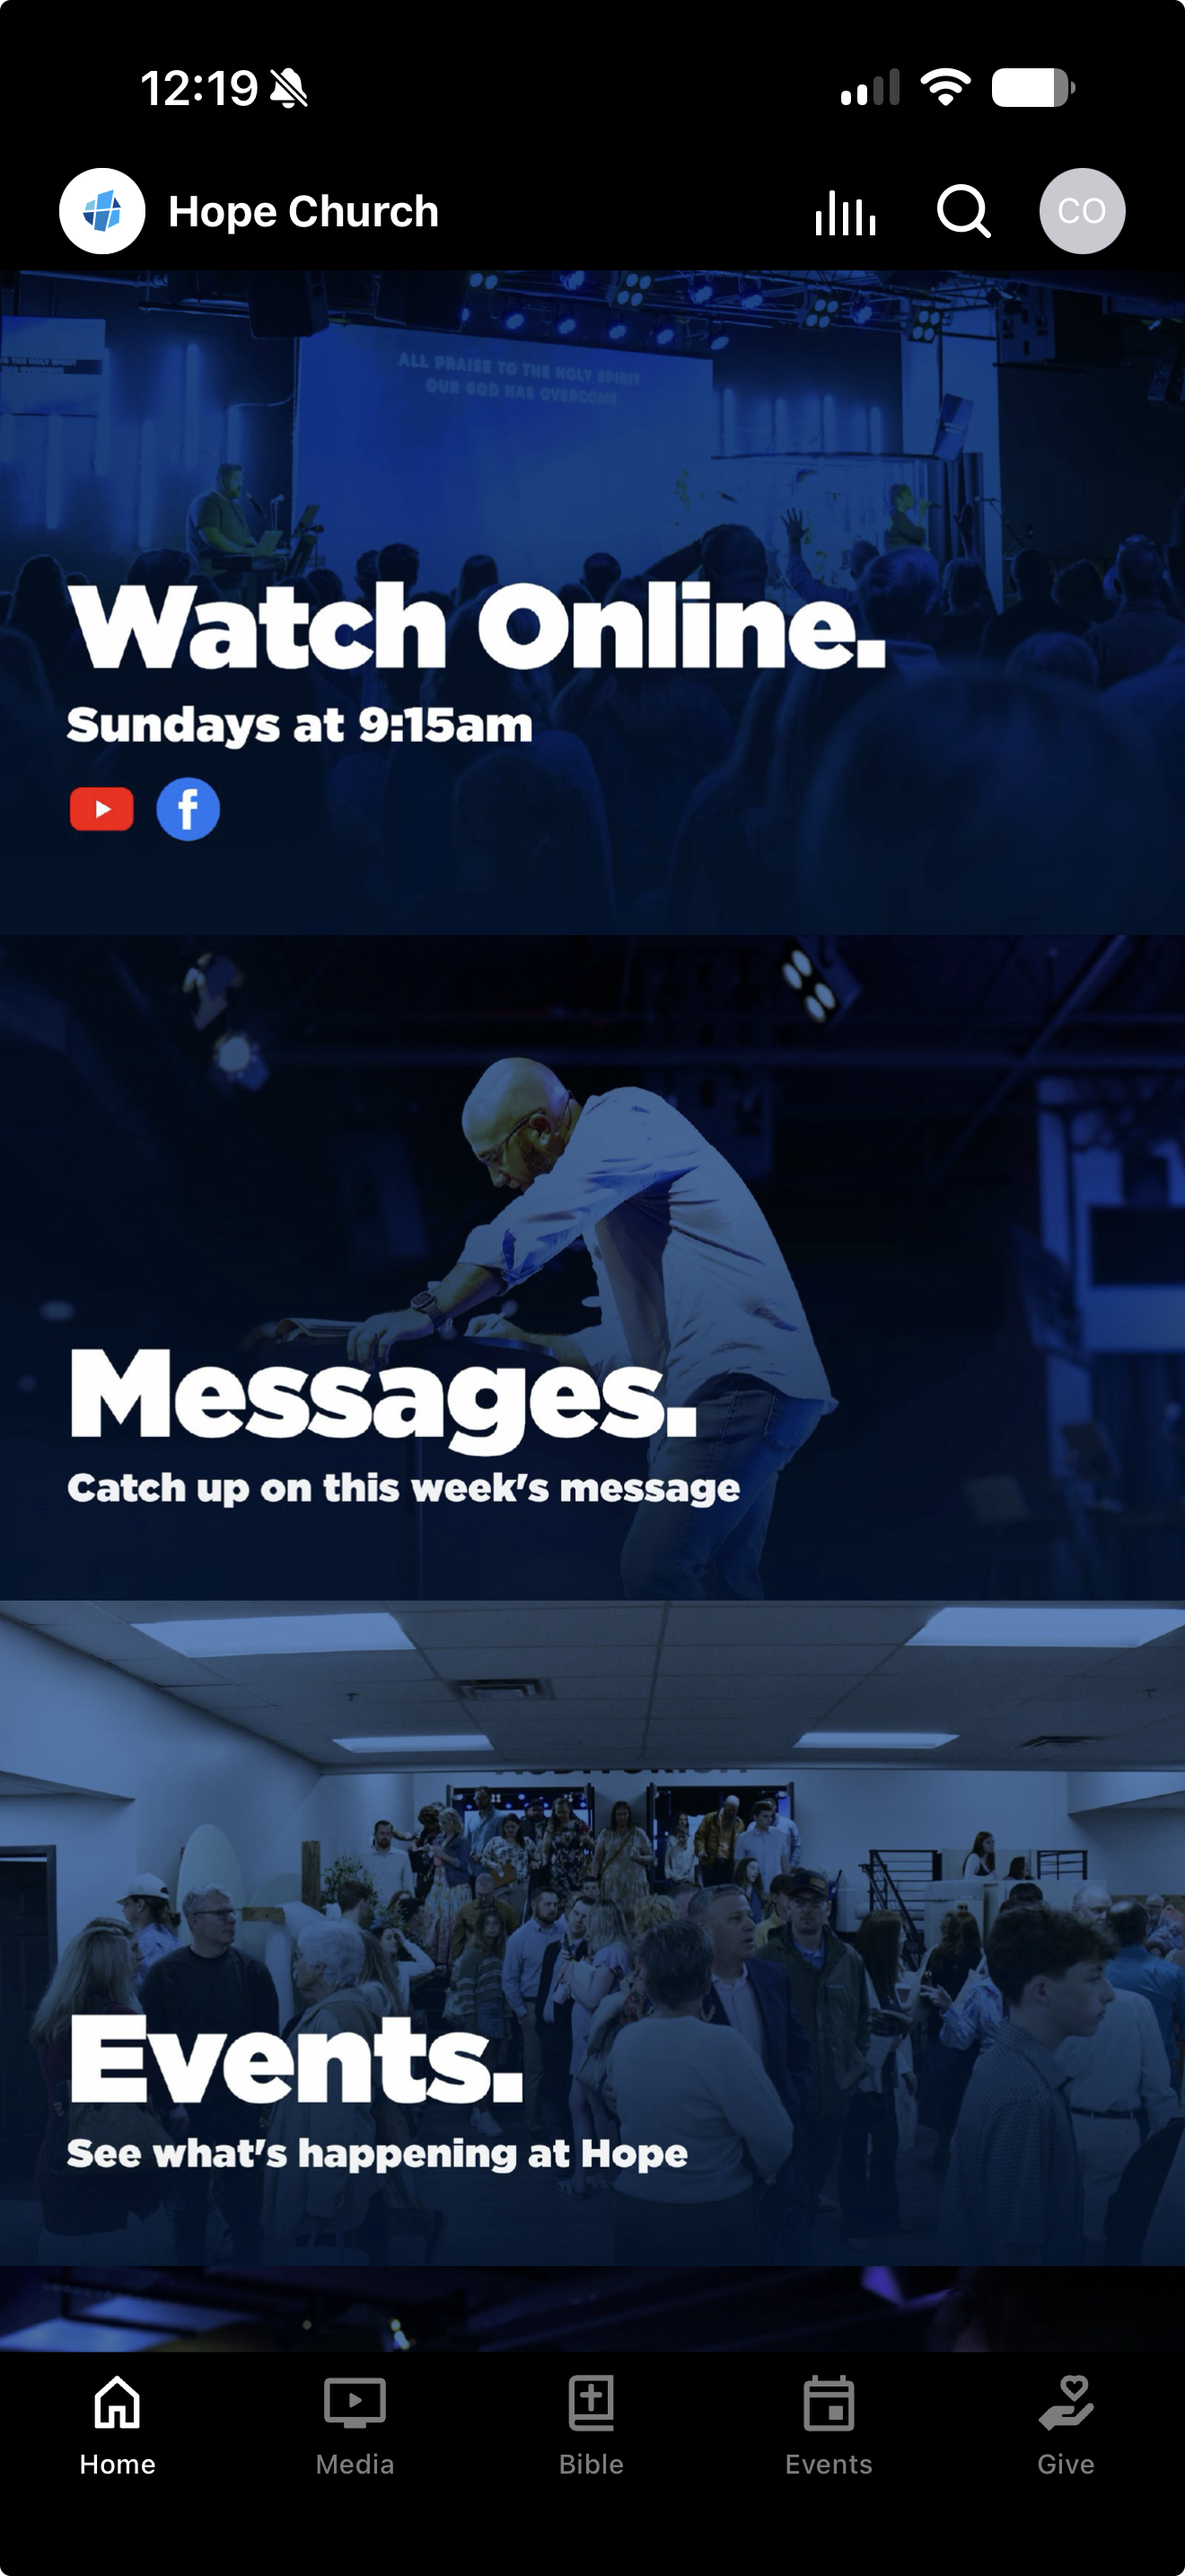
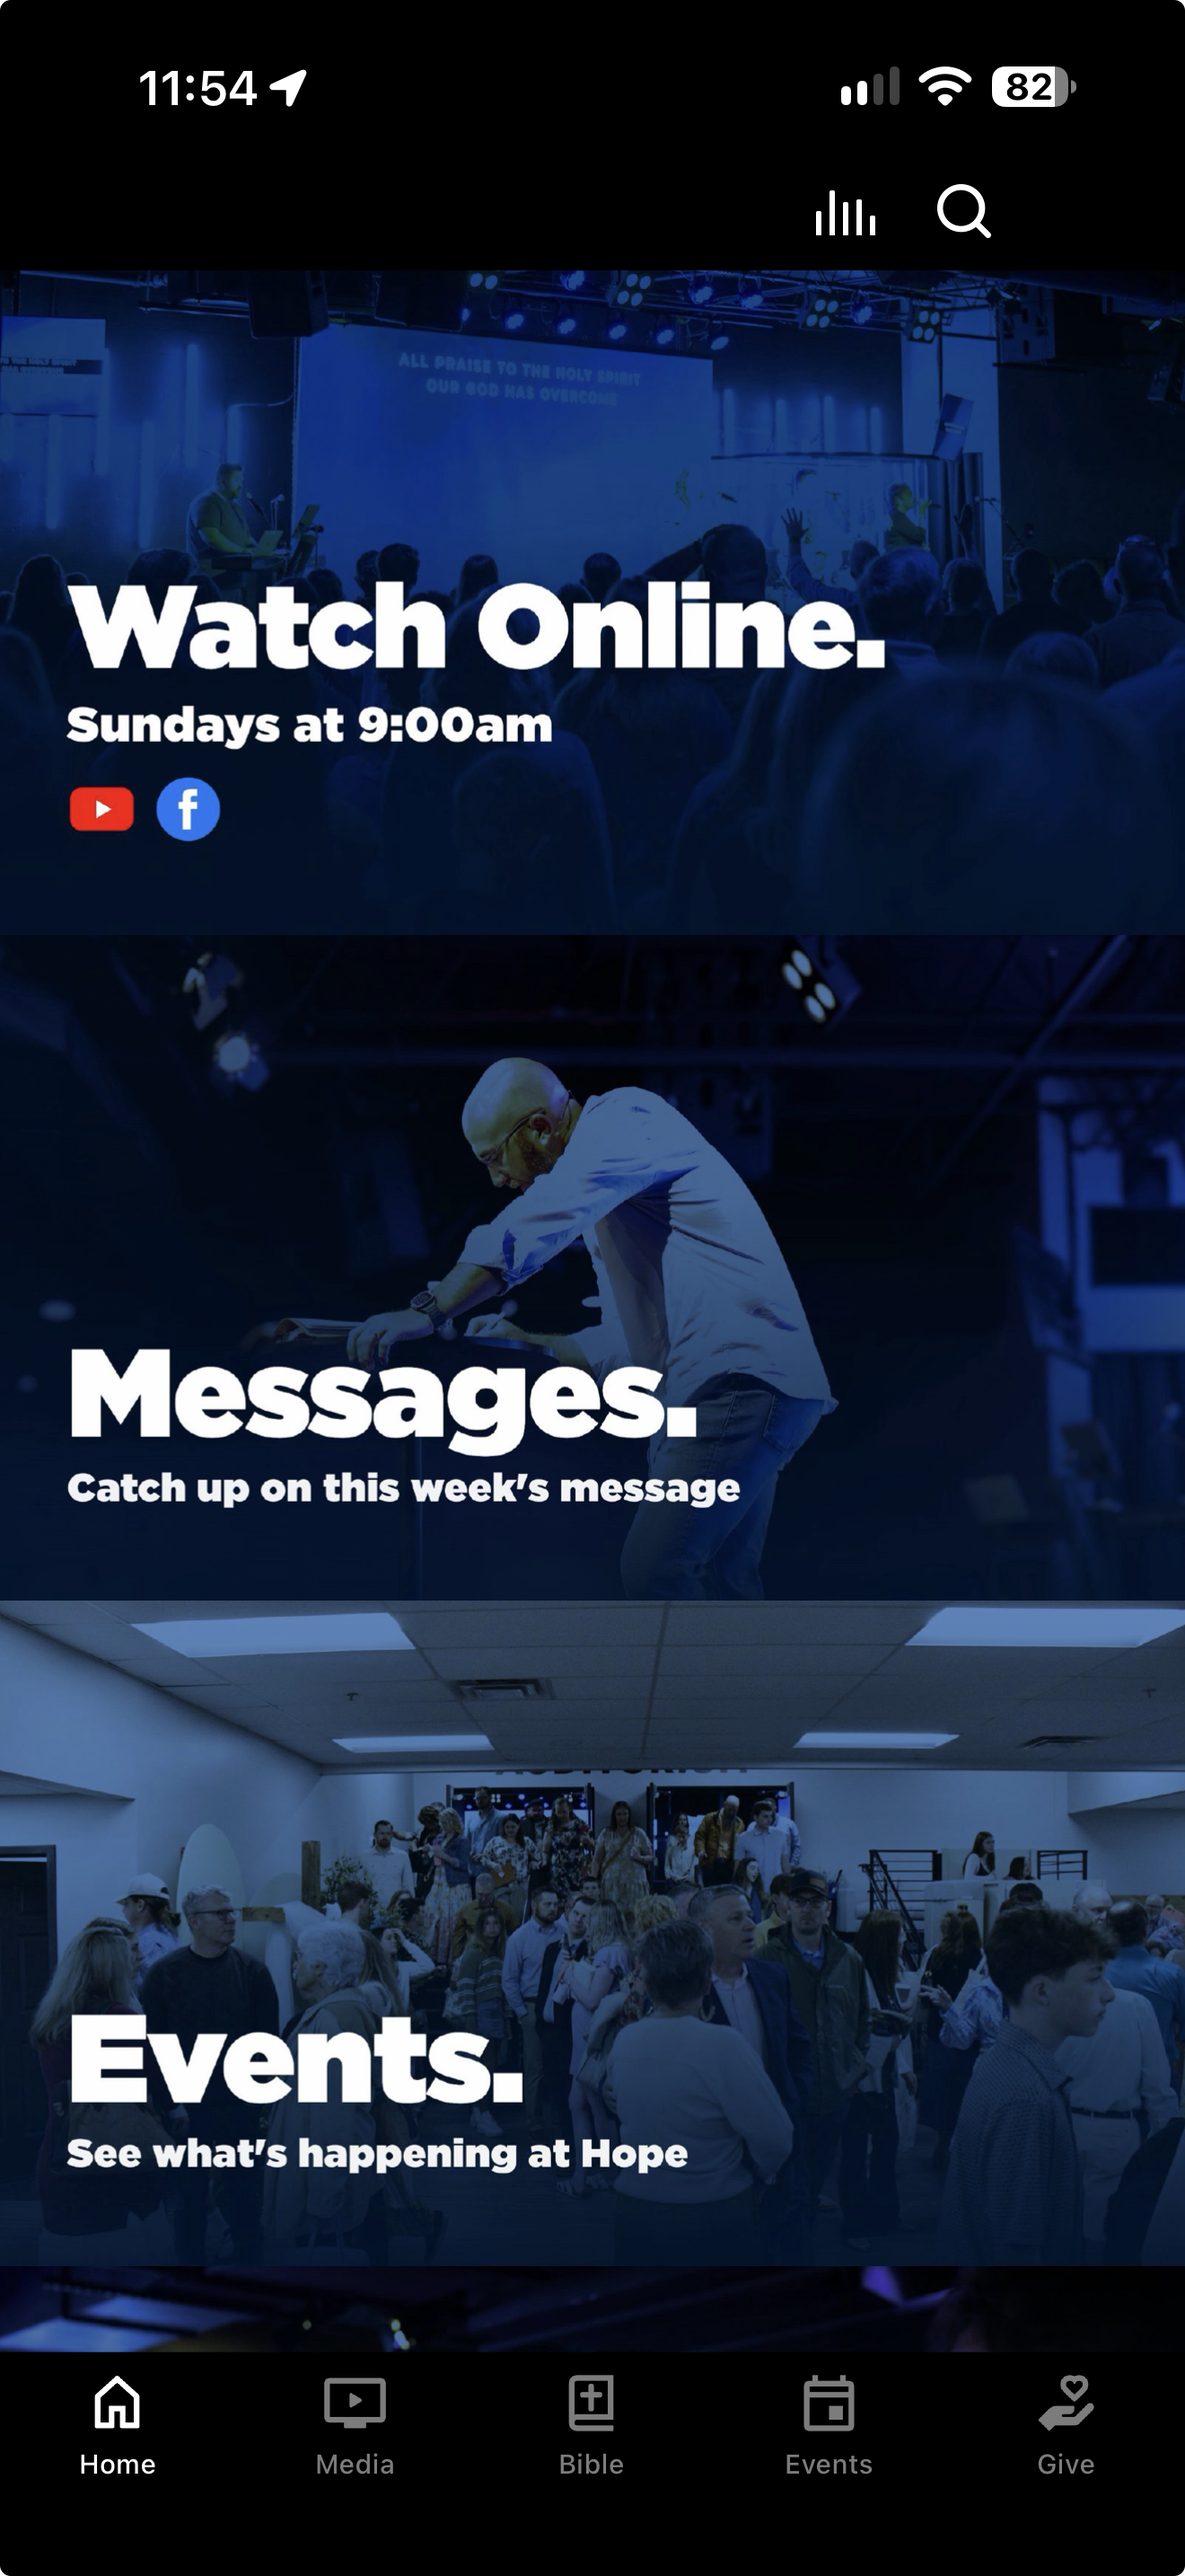
Home: fourth-service Coming Soon card + refreshed app screenshot
Add the 12:45pm service to serviceTimes.jsx (the single source of truth)
behind a FOURTH_SERVICE_START gate (Sun Sep 20 2026, 12:45pm ET). Until
that instant the Service Times block shows it as a "Coming Soon" card with
all classes (nursery-Linked 56); after it, the card, the footer Sundays
list, the hero time bar, and the kids classes note all pick it up on their
own — no redeploy needed. ?previewFourth=live|soon forces a state for QA.

Headline drops the service count ("Three services. Same welcome." ->
"Every service. Same welcome.") so it stays true across schedule changes.

The service-times grid was hardcoded to 3 columns; it is now 4-up on
desktop, 2x2 on tablet, stacked on mobile.

Also replace app-screenshot.png — the old one still advertised the 9:15am
livestream, which moved to 9:00am.

diff --git a/src/components/shared.jsx b/src/components/shared.jsx
@@ -1,7 +1,7 @@
 import React from 'react';
 import { resources } from '../resources.js';
 import { pathFor } from '../nav.js';
-import { useServiceTimes } from '../serviceTimes.jsx';
+import { useServiceTimes, useFourthServiceLive } from '../serviceTimes.jsx';
 // Hope Church — shared components: Header, Footer, Sunday strip, Announcement bar
 
 const { useState, useEffect } = React;
@@ -454,24 +454,34 @@ function MissionBar() {
 // ---------- Service Times block ----------
 function ServiceTimes() {
   const st = useServiceTimes();
+  const fourthLive = useFourthServiceLive();
+  const ALL_CLASSES = 'All classes (nursery–Linked 56)';
   const times = [
     { t: st.first.replace('am',''), s: 'am', name: 'First Service', note: st.isNew ? 'Nursery & preschool only' : null },
-    { t: st.second.replace('am',''), s: 'am', name: 'Second Service', note: st.isNew ? 'All classes (nursery–Linked 56)' : null },
-    { t: st.third.replace('am',''), s: 'am', name: 'Third Service', note: st.isNew ? 'All classes (nursery–Linked 56)' : null },
+    { t: st.second.replace('am',''), s: 'am', name: 'Second Service', note: st.isNew ? ALL_CLASSES : null },
+    { t: st.third.replace('am',''), s: 'am', name: 'Third Service', note: st.isNew ? ALL_CLASSES : null },
   ];
+  // The 12:45 service shows as "coming soon" until it starts on Sep 20, then
+  // becomes an ordinary card alongside the others.
+  if (st.isNew) times.push({
+    t: st.fourth.replace('pm',''), s: 'pm', name: 'Fourth Service',
+    note: ALL_CLASSES, soon: !fourthLive,
+  });
   return (
     <section className="service-times" data-screen-label="ServiceTimes">
       <div className="container">
         <div className="service-times-header">
           <span className="eyebrow">Sunday Mornings</span>
-          <h2 className="service-times-title">Three services. Same welcome.</h2>
+          <h2 className="service-times-title">Every service. Same welcome.</h2>
         </div>
         <div className="service-times-grid">
           {times.map((x) => (
-            <div key={x.t} className="service-time">
+            <div key={x.name} className={x.soon ? 'service-time service-time-soon' : 'service-time'}>
+              {x.soon && <div className="st-soon">Coming Soon</div>}
               <div className="st-time">{x.t}<s>{x.s}</s></div>
               <div className="st-name">{x.name}</div>
               {x.note && <div className="st-note">{x.note}</div>}
+              {x.soon && <div className="st-desc">Starting Sunday, September&nbsp;20</div>}
             </div>
           ))}
         </div>
@@ -514,6 +524,7 @@ function NewHereBlock({ onVisit }) {
 // ---------- Footer ----------
 function Footer({ onNav }) {
   const st = useServiceTimes();
+  const fourthLive = useFourthServiceLive();
   return (
     <footer className="site-footer">
       <div className="container footer-inner">
@@ -541,6 +552,7 @@ function Footer({ onNav }) {
               <li>{st.first}</li>
               <li>{st.second}</li>
               <li>{st.third}</li>
+              {fourthLive && <li>{st.fourth}</li>}
             </ul>
           </div>
           <div>

diff --git a/src/serviceTimes.jsx b/src/serviceTimes.jsx
@@ -15,7 +15,7 @@ const { useState, useEffect } = React;
 export const SERVICE_TIMES_SWITCH = Date.parse('2026-07-26T17:00:00Z');
 
 const OLD = { first: '8:00am', second: '9:45am', third: '11:30am', stream: '9:45am', runthrough: '7:00am', runthroughEnd: '7:30am', isNew: false };
-const NEW = { first: '7:30am', second: '9:00am', third: '11:00am', stream: '9:00am', runthrough: '6:30am', runthroughEnd: '7:00am', isNew: true };
+const NEW = { first: '7:30am', second: '9:00am', third: '11:00am', fourth: '12:45pm', stream: '9:00am', runthrough: '6:30am', runthroughEnd: '7:00am', isNew: true };
 
 export const OLD_SERVICE_TIMES = OLD;
 export const NEW_SERVICE_TIMES = NEW;
@@ -27,13 +27,43 @@ export const NEW_SERVICE_TIMES = NEW;
 // Add ?previewTimes=new (or =old) to any URL to force a set for QA.
 // Shared note: under the new schedule the 7:30 service is nursery & preschool
 // only (no K–4th grade, no Linked 5–6th).
+
+// The fourth service (12:45pm) begins Sunday, September 20 2026 at 12:45pm ET
+// (EDT = UTC-4 -> 16:45 UTC). Until that instant the site shows it as "coming
+// soon"; after it, as a regular service — flipped automatically, no redeploy.
+// Add ?previewFourth=live (or =soon) to any URL to force a state for QA.
+export const FOURTH_SERVICE_START = Date.parse('2026-09-20T16:45:00Z');
+
+// Initial state is deliberately `false` so the pre-rendered HTML and the first
+// client render agree (no hydration mismatch); the effect corrects it. After
+// Sep 20 a redeploy bakes the live state into the static HTML for crawlers.
+export function useFourthServiceLive() {
+  const [live, setLive] = useState(false);
+  useEffect(() => {
+    let force = null;
+    try {
+      const p = new URLSearchParams(window.location.search).get('previewFourth');
+      if (p === 'live' || p === 'soon') window.sessionStorage.setItem('previewFourth', p);
+      else if (p === 'off') window.sessionStorage.removeItem('previewFourth');
+      const stored = window.sessionStorage.getItem('previewFourth');
+      if (stored === 'live') force = true;
+      else if (stored === 'soon') force = false;
+    } catch { /* ignore */ }
+    setLive(force !== null ? force : Date.now() >= FOURTH_SERVICE_START);
+  }, []);
+  return live;
+}
 export function KidsServiceNote({ className }) {
   const st = useServiceTimes();
+  const fourthLive = useFourthServiceLive();
   if (!st.isNew) return null;
+  const withClasses = fourthLive
+    ? <>the {st.second}, {st.third}, and {st.fourth} services</>
+    : <>the {st.second} and {st.third} services</>;
   return (
     <p className={className}>
       <strong>Heads up for the {st.first} service:</strong> we offer nursery &amp; preschool only.
-      Kindergarten&ndash;4th grade and Linked 5&ndash;6th grade classes meet at the {st.second} and {st.third} services.
+      Kindergarten&ndash;4th grade and Linked 5&ndash;6th grade classes meet at {withClasses}.
     </p>
   );
 }

diff --git a/public/assets/site.css b/public/assets/site.css
@@ -362,9 +362,9 @@
 .service-times-header { text-align: center; margin-bottom: 56px; position: relative; }
 .service-times-header .eyebrow { color: var(--hope-sky); }
 .service-times-title { color: #fff; font-size: 52px; margin: 14px 0 0; font-weight: 900; letter-spacing: -0.02em; line-height: 1.05; }
-.service-times-grid { display: grid; grid-template-columns: repeat(3, 1fr); gap: 18px; max-width: 1000px; margin: 0 auto; position: relative; }
+.service-times-grid { display: grid; grid-template-columns: repeat(4, 1fr); gap: 16px; max-width: 1200px; margin: 0 auto; position: relative; }
 .service-time {
-  padding: 36px 30px;
+  padding: 34px 26px;
   border-radius: 16px;
   background: rgba(255,255,255,0.035);
   border: 1px solid rgba(255,255,255,0.1);
@@ -378,8 +378,9 @@
   color: #fff; letter-spacing: 0.1em;
 }
 .st-time {
-  font-family: var(--font-display); font-size: 56px; font-weight: 900;
+  font-family: var(--font-display); font-size: 50px; font-weight: 900;
   color: var(--hope-sky); letter-spacing: -0.03em; line-height: 1;
+  white-space: nowrap;
 }
 .st-time s { text-decoration: none; font-size: 24px; color: rgba(107,196,232,0.6); margin-left: 4px; letter-spacing: 0; }
 .st-name { font-size: 18px; font-weight: 700; margin-top: 18px; }
@@ -392,6 +393,19 @@
   border-radius: 999px; padding: 4px 11px;
 }
 .st-desc { font-size: 14px; color: #fff; margin-top: 8px; line-height: 1.55; }
+
+/* Fourth service, before it starts */
+.service-time-soon { border-style: dashed; border-color: rgba(107,196,232,0.45); background: rgba(107,196,232,0.06); }
+.service-time-soon .st-time { color: rgba(107,196,232,0.75); }
+.st-soon {
+  display: inline-block; margin-bottom: 14px;
+  font-family: var(--font-mono); font-size: 10px; font-weight: 800;
+  letter-spacing: 0.14em; text-transform: uppercase;
+  color: var(--ink-900); background: var(--hope-sky);
+  border-radius: 999px; padding: 5px 10px;
+}
+.service-time-soon .st-desc { font-size: 13px; font-weight: 700; color: var(--hope-sky); }
+.hero-c-bar-soon { opacity: 0.6; }
 
 .service-times-foot {
   text-align: center; margin-top: 48px;
@@ -1959,6 +1973,7 @@
   .service-time { padding: 24px 22px; }
   .service-times-title { font-size: 34px; }
   .st-time { font-size: 44px; }
+  .service-time { padding: 24px 22px; }
   .service-times-foot { margin-top: 32px; font-size: 13px; }
   .service-times-header { margin-bottom: 32px; }
 

diff --git a/src/components/homepage.jsx b/src/components/homepage.jsx
@@ -2,7 +2,7 @@ import React from 'react';
 import { resources } from '../resources.js';
 import { Icon, Button, SectionHeader } from './shared.jsx';
 import { SubsplashRecent, SubsplashEvents } from './embeds.jsx';
-import { useServiceTimes } from '../serviceTimes.jsx';
+import { useServiceTimes, useFourthServiceLive } from '../serviceTimes.jsx';
 // Hope Church — 3 homepage hero variations + supporting blocks
 
 // ======================================================
@@ -10,6 +10,7 @@ import { useServiceTimes } from '../serviceTimes.jsx';
 // ======================================================
 function HeroA({ onVisit, onWatch }) {
   const st = useServiceTimes();
+  const fourthLive = useFourthServiceLive();
   return (
     <section className="hero-a" data-screen-label="Hero A">
       <div className="hero-a-media">
@@ -29,7 +30,7 @@ function HeroA({ onVisit, onWatch }) {
       <div className="hero-a-bottom">
         <span>Gray, Tennessee</span>
         <div className="hero-a-bottom-right">
-          <span>Sundays · {st.first.replace('am','')} · {st.second.replace('am','')} · {st.third}</span>
+          <span>Sundays · {st.first.replace('am','')} · {st.second.replace('am','')} · {fourthLive ? <>{st.third.replace('am','')} · {st.fourth}</> : st.third}</span>
         </div>
       </div>
     </section>
